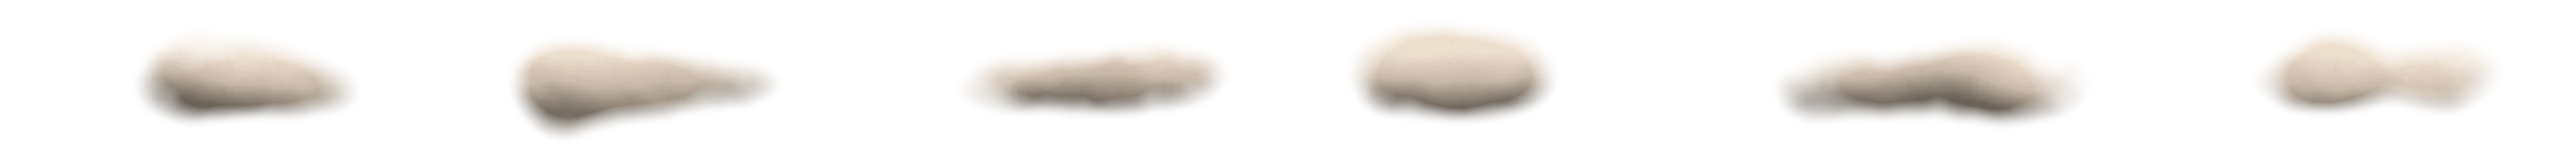
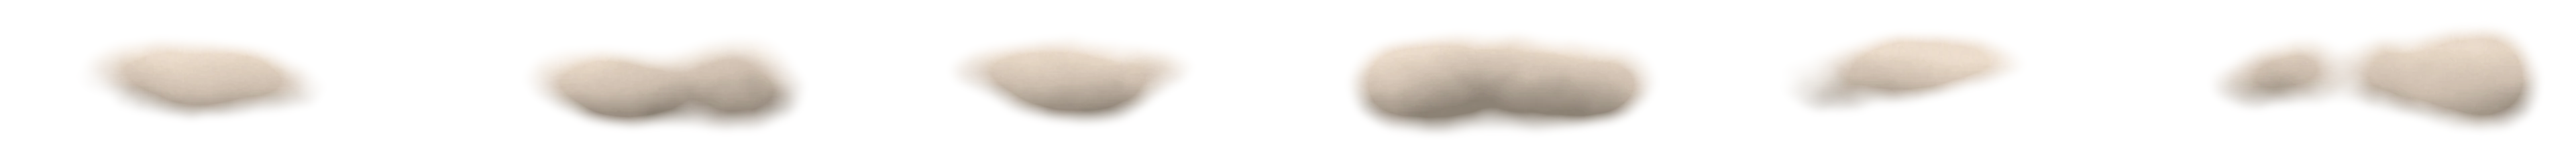
Niebla detrás de los personajes; nubes más suaves con los colores de la lámina; QA completo
Claude-Session: https://claude.ai/code/session_01M12J5Dq2ffQCMYsL54s8rZ

diff --git a/src/scenes/WorldScene.ts b/src/scenes/WorldScene.ts
@@ -794,7 +794,7 @@ export class WorldScene extends Phaser.Scene {
     // niebla baja que deriva
     if (era === 'abandono' || this.room.outdoor || this.room.id === 'sotano') {
       for (let i = 0; i < Math.ceil(W / 700) + 1; i++) {
-        const hz = this.add.image(i * 700 - 250, 720, 'haze').setOrigin(0, 1).setScale(1.1, 1).setDepth(9150).setAlpha(this.room.outdoor ? 0.42 : 0.34)
+        const hz = this.add.image(i * 700 - 250, 720, 'haze').setOrigin(0, 1).setScale(1.1, 1).setDepth(520).setAlpha(this.room.outdoor ? 0.42 : 0.34)
           .setTint(era === 'abandono' ? 0xc8d0b8 : 0xe8e0d0);
         this.tweens.add({ targets: hz, x: hz.x + 140, duration: 16000 + i * 3000, yoyo: true, repeat: -1, ease: 'Sine.inOut' });
         this.particles.push(hz as any);

diff --git a/tools/skydrift.py b/tools/skydrift.py
@@ -12,9 +12,9 @@ fg = np.array(Image.open(base + '-fg.webp').convert('RGBA'))
 sky = fg[..., 3] < 20
 px = plate[sky]
 lum = px.mean(1)
-hi = px[lum >= np.percentile(lum, 88)].mean(0) * 0.7 + np.array([255, 246, 232]) * 0.3   # cara iluminada
+hi = px[lum >= np.percentile(lum, 88)].mean(0) * 0.82 + np.array([255, 246, 232]) * 0.18   # cara iluminada
 mid = px[(lum > np.percentile(lum, 40)) & (lum < np.percentile(lum, 60))].mean(0)
-lo = px[lum <= np.percentile(lum, 15)].mean(0) * 0.62   # panza en sombra
+lo = px[lum <= np.percentile(lum, 15)].mean(0) * 0.8   # panza en sombra
 FW, FH, N = 640, 240, 6
 yy, xx = np.mgrid[0:FH, 0:FW].astype(np.float32)
 def fbm(oct=5):
@@ -47,7 +47,7 @@ for k in range(N):
     tone = 1 - v
     col = np.where(tone[..., None] > 0.5, mid + (hi - mid) * ((tone[..., None] - 0.5) * 2), lo + (mid - lo) * (tone[..., None] * 2))
     col *= (0.96 + 0.08 * gaussian_filter(rng.random((FH, FW)), 1.0))[..., None]
-    a = np.clip(d * 1.7, 0, 0.95) ** 0.9
+    a = np.clip(d * 1.6, 0, 0.9) ** 0.9
     frames.append(np.dstack([np.clip(col, 0, 255), a * 255]).astype(np.uint8))
 Image.fromarray(np.concatenate(frames, 1), 'RGBA').save(base + '-clouds.webp', quality=88)
 print(base, 'nubes', N)

diff --git a/PROGRESS.md b/PROGRESS.md
@@ -41,3 +41,8 @@ Ale eligió la fachada en abandono pintada como referencia de todo el juego. Los
 - Mirar: Elena hace el gesto de examinar.
 - Nubes: `tools/skydrift.py` pinta una tira de nubes con los colores del cielo de cada lámina; se mueven más rápido y más visibles.
 - Época de las sombras (sala del reloj y demás): los personajes se ven en tinta sepia sobre papel (`inkify`, ColorMatrix de WebGL); Rosa atrapada es tinta oscura y se balancea barriendo en vez de deslizarse; Isabel, casi papel.
+
+### QA 25/11 (recorrido completo en Chrome, build 415a11e)
+- Recorrido entero hasta el final "La placa" sin errores; Anselmo, Mercedes, Rosa, Isabel y entregas de objetos OK.
+- Niebla baja ahora detrás de los personajes (profundidad 520), así no les borra las piernas.
+- Nubes suavizadas para respetar los colores aprobados de la lámina (regla de Ale: no cambiar la estética).
